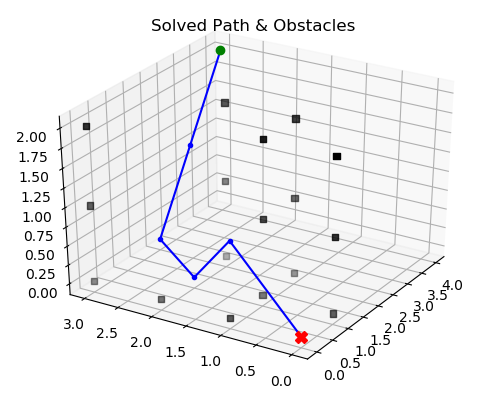
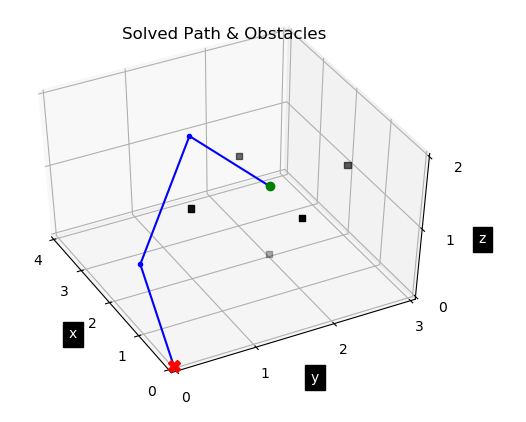
Fixed collision bug; flood_fill_3d.py outputs data to json file for 3d_model.py to interpret; cleaned up code and comments for flood_fill_3d.py and 3d_model.py

diff --git a/3D/flood_fill_3d.py b/3D/flood_fill_3d.py
@@ -1,3 +1,5 @@
+import json
+
 class Map:
     """A 3D map to test our program on"""
     def __init__(self):
@@ -6,30 +8,26 @@ class Map:
         1 - Obstacle
         2 - Goal
         """
-        self.collision_map = [[[2,1,0,0,0],
-                               [1,1,1,0,0],
-                               [1,0,1,0,0],
-                               [1,0,0,0,0]],
-                              [[0,1,0,0,0],
-                               [0,1,1,0,0],
+        self.collision_map = [[[2,0,0,0,0],
+                               [0,0,0,0,0],
                                [0,0,1,0,0],
-                               [1,0,0,0,0]],
-                              [[0,1,0,0,0],
-                               [0,1,1,0,0],
+                               [0,0,0,0,0]],
+                              [[0,0,0,0,0],
                                [0,0,1,0,0],
-                               [1,0,0,0,0]]]
+                               [0,1,0,1,0],
+                               [0,0,1,0,0]],
+                              [[0,0,0,0,0],
+                               [0,0,0,0,0],
+                               [0,0,0,0,0],
+                               [0,0,0,0,0]]]
 
         self.length = len(self.collision_map[0][0])
         self.width = len(self.collision_map[0])
         self.height = len(self.collision_map)
 
     def get_element(self, position):
+        """Returns the element from a coordinate on the collision_map"""
         return self.collision_map[position[2]][position[1]][position[0]]
-
-    def _print(self, path):
-        """Prints layers of 3D map for demonstration. Maybe plot a path on a
-        3D graph with numpy and matplotlib."""
-        pass
 
 class Node():
     """These Nodes will spread throughout the map and collect the coordinates
@@ -50,18 +48,20 @@ class Node():
 
 class Pathfinder():
     """This is our pathfinding class that will search for and return the
-       requested path."""
-    def __init__(self, map, start):
+       requested path"""
+    def __init__(self, map):
         self.path = []
         self.checked_steps = []
         self.queued_nodes = []
         self.closed_nodes = []
         self.map = map
-        self.start = start
         self.solved = False
 
-    def search(self):
+    def search(self, start):
         """The main loop that iterates through each possible step"""
+        # Store our start as a part of the object
+        self.start = start
+
         # Queue initial node and  add to checked steps list
         self.queue_node(None, self.start)
         self.check_step(self.start)
@@ -87,9 +87,9 @@ class Pathfinder():
                     # on to the next node
                     if self.step_is_checked(step) == False:
 
-                        # If there are no obstacles in or around the step, else
-                        # move on to the next node
-                        if self.check_for_obstacle(self.current_node.position, \
+                        # If there are no collisions between Node position and
+                        # then step, else move on to the next node
+                        if self.check_for_collision(self.current_node.position,\
                         step, direction) == False:
 
                             # Queue new node, pass current node as the parent of
@@ -220,7 +220,7 @@ class Pathfinder():
 
     def check_step(self, step):
         """Add the given step to our list of checked steps to prevent
-           unnecessary checks"""
+           redundant checks"""
         self.checked_steps.append(step)
 
     def step_is_checked(self, step):
@@ -231,11 +231,34 @@ class Pathfinder():
             self.check_step(step)
             return False
 
-    def check_for_obstacle(self, position, step, direction):
-        """Check if the step an obstacle"""
+    def check_for_collision(self, position, step, direction):
+        """Check if there is a collision between position and step"""
         if self.map.get_element(step) == 1:
             return True
         else:
+            # We are checking to see if we illegally cross through a surface
+            # created with the points of the obstacles between the Node's
+            # position and its step.
+            if (direction > 0 and direction < 9) or direction > 16:
+                obstacle_p1 = [step[0], position[1], position[2]]
+                obstacle_p2 = [position[0], step[1], position[2]]
+                obstacle_p3 = [position[0], position[1], step[2]]
+                obstacle_p4 = [step[0], step[1], position[2]]
+                if (self.map.get_element(obstacle_p1) == 1 \
+                and self.map.get_element(obstacle_p2) == 1 \
+                and self.map.get_element(obstacle_p3) == 1) \
+                or (self.map.get_element(obstacle_p3) == 1 \
+                and self.map.get_element(obstacle_p4) == 1):
+                    return True
+            # We are checking to see if the Node is passing between two
+            # obstacles diagonally on the Node's z-axis.
+            elif (direction > 8 and direction < 17) and direction % 2 == 0:
+                obstacle_p1, obstacle_p2 = [position[0], step[1], position[2]],\
+                [step[0], position[1], position[2]]
+
+                if self.map.get_element(obstacle_p1) == 1 and self.map.get_element(obstacle_p2) == 1:
+                    return True
+
             return False
 
     def step_is_goal(self, step):
@@ -245,14 +268,25 @@ class Pathfinder():
         else:
             return False
 
+# Instantiate Map() and Pathfinder()
 map = Map()
-pathfinder = Pathfinder(map, [4,3,2])
-path = pathfinder.search()
+pathfinder = Pathfinder(map)
 
-# Print demonstration
-map._print(path)
-print path
+# Search starting from the coordinate [x, y, z]
+path = pathfinder.search([2, 2, 1])
+
+# Store the collision map and path as json
+data = json.dumps({"map": map.collision_map, "path": path})
+
+# Write the data to a json file for 3d_model.py to interpret
+with open("flood_fill_3d.json", "w") as file:
+    file.write(data)
+    print "\n\tData saved to flood_fill_3d.json\n"
+
+# - - - - - - - - - - - - - - Print Demonstration - - - - - - - - - - - - - - #
+
+print "\t" + str(path)
 if len(path):
-    print "Total steps to goal:", str(len(path) - 1), "\n"
+    print "\tTotal steps to goal:", str(len(path) - 1), "\n"
 else:
-    print "Total steps to goal: 0"
+    print "\tTotal steps to goal: 0"

diff --git a/3D/3d_model.py b/3D/3d_model.py
@@ -1,59 +1,90 @@
-import numpy as np
-import matplotlib.pyplot as plot
-from mpl_toolkits.mplot3d import Axes3D
-
 """
 The purpose of this file is to aid debugging of the 3D Flood Fill.
 """
+import json
+import numpy as np
+import matplotlib.pyplot as plot
+from mpl_toolkits.mplot3d import Axes3D
+from matplotlib.ticker import MaxNLocator
 
-collision_map = [[[2,1,0,0,0],
-                  [1,1,1,0,0],
-                  [1,0,1,0,0],
-                  [1,0,0,0,0]],
-                 [[0,1,0,0,0],
-                  [0,1,1,0,0],
-                  [0,0,1,0,0],
-                  [1,0,0,0,0]],
-                 [[0,1,0,0,0],
-                  [0,1,1,0,0],
-                  [0,0,1,0,0],
-                  [1,0,0,0,0]]]
+# Try to load the data from the algorithm, if it fails use dummy data.
+try:
+    with open("flood_fill_3d.json", "r") as file:
+        file.seek(0)
+        data = file.readline()
+    data = json.loads(data)
+except:
+    data = {"map": [[[0,0],[0,0]],[[0,0],[0,0]]], "path": []}
 
-length = len(collision_map[0][0])
-width = len(collision_map[0])
-height = len(collision_map)
+# Get the dimensions of the map.
+length = len(data["map"][0][0])
+width = len(data["map"][0])
+height = len(data["map"])
 
+# Create an empty map for our obstacles based upon the dimensions of our
+# collision map.
 obstacles = np.zeros((height, width, length), dtype=int)
 
-path = [[4, 3, 2], [3, 3, 1], [2, 3, 0], [1, 2, 0], [0, 1, 1], [0, 0, 0]]
 x = []
 y = []
 z = []
 
-for coordinate in path:
+# Split and append our path coordinates to three different arrays.
+for coordinate in data["path"]:
     z.append(coordinate[2])
     y.append(coordinate[1])
     x.append(coordinate[0])
 
-for dz in range(len(collision_map)):
-    for dy in range(len(collision_map[dz])):
-        for dx in range(len(collision_map[dz][dy])):
-            if collision_map[dz][dy][dx] == 0 or collision_map[dz][dy][dx] == 1:
-                obstacles[dz][dy][dx] = collision_map[dz][dy][dx]
+# Let our obstacle map take on the coordinates of the obstacles.
+for dz in range(len(data["map"])):
+    for dy in range(len(data["map"][dz])):
+        for dx in range(len(data["map"][dz][dy])):
+            if data["map"][dz][dy][dx] == 0 or data["map"][dz][dy][dx] == 1:
+                obstacles[dz][dy][dx] = data["map"][dz][dy][dx]
             else:
                 obstacles[dz][dy][dx] = 0
 
+# Split and append the obstacle coordinates to three different arrays.
 z2, y2, x2 = obstacles.nonzero()
 
-print obstacles
-print path
-
+# Create our figure for our graph.
 figure = plot.figure()
-ax = figure.add_subplot(111, projection='3d', title="Solved Path & Obstacles")
 
-ax.plot(x, y, z, c="b", marker=".")
-ax.plot([x[0]], [y[0]], [z[0]], c="g", marker="o")
-ax.plot([x[-1]], [y[-1]], [z[-1]], c="r", marker="X", markersize=8)
+# Create the axis for the model; give it a title.
+ax = figure.add_subplot(111, projection='3d', title="Solved Path & Obstacles")
+ax.set_xlim(0,length-1)
+ax.set_ylim(0,width-1)
+ax.set_zlim(0,height-1)
+
+# Configure our axis:
+# - Ticks are only integers
+# - Label each axis
+# - Invert the y-axis
+ax.xaxis.set_major_locator(MaxNLocator(integer=True))
+ax.yaxis.set_major_locator(MaxNLocator(integer=True))
+ax.zaxis.set_major_locator(MaxNLocator(integer=True))
+ax.set_xlabel("x", backgroundcolor="black", color="w")
+ax.set_ylabel("y", backgroundcolor="black", color="w")
+ax.set_zlabel("z", backgroundcolor="black", color="w")
+ax.invert_yaxis()
+
+# If there is a path, plot it.
+# - Path is blue, connected and marked as dots
+# - Initial position is green, marked with a circle
+# - Goal is red, marked with an X
+if data["path"]:
+    ax.plot(x, y, z, c="b", marker=".")
+    ax.plot([x[0]], [y[0]], [z[0]], c="g", marker="o")
+    ax.plot([x[-1]], [y[-1]], [z[-1]], c="r", marker="X", markersize=8)
+
+# Scatter/plot the obstacles as black squares.
 ax.scatter(x2, y2, z2, c="black", marker="s")
 
+# For debugging collision check
+#ax.plot_trisurf([2,2,3],[2,3,2],[0,1,1], cmap='Pastel1', edgecolor='none')
+#ax.plot_trisurf([2,2,1],[2,1,2],[0,1,1], cmap='summer', edgecolor='none')
+#ax.plot_trisurf([2,2,1],[2,3,2],[0,1,1], cmap='Wistia', edgecolor='none')
+#ax.plot_trisurf([2,2,3],[2,1,2],[0,1,1], cmap='autumn', edgecolor='none')
+
+# Show the plotted data
 plot.show()

diff --git a/2D/flood_fill.py b/2D/flood_fill.py
@@ -7,9 +7,9 @@ class Map:
         2 - Goal
         """
         self.collision_map = [[2,1,0,0,0],
-                              [0,1,1,0,0],
-                              [0,0,1,0,0],
-                              [1,0,0,0,0]]
+                              [0,1,0,1,0],
+                              [0,1,0,1,0],
+                              [0,0,0,1,0]]
         self.width = len(self.collision_map[0])
         self.height = len(self.collision_map)
 

diff --git a/README.md b/README.md
@@ -24,7 +24,8 @@ O - Obstacle
 Let's visit another dimension! How about 3D space?
 
 ### To-do
-- [ ] :bug: Solve bug in method Pathfinder.check_for_obstacle() that allows the Node to make illegal moves
+- [x] :bug: Solve bug in method Pathfinder.check_for_obstacle() that allows the Node to make illegal moves
 - [x] Create a 3D graphing model to aid debugging
-- [ ] Export Map.collision_map and Pathfinder.path to be imported by 3d_model.py
+- [x] Export Map.collision_map and Pathfinder.path to be imported by 3d_model.py
+- [x] Cleaned up the code and comments of flood_fill_3d.py and 3d_model.py
 - [ ] Find a way to make Pathfinder.node_look() less bloated and more efficient
